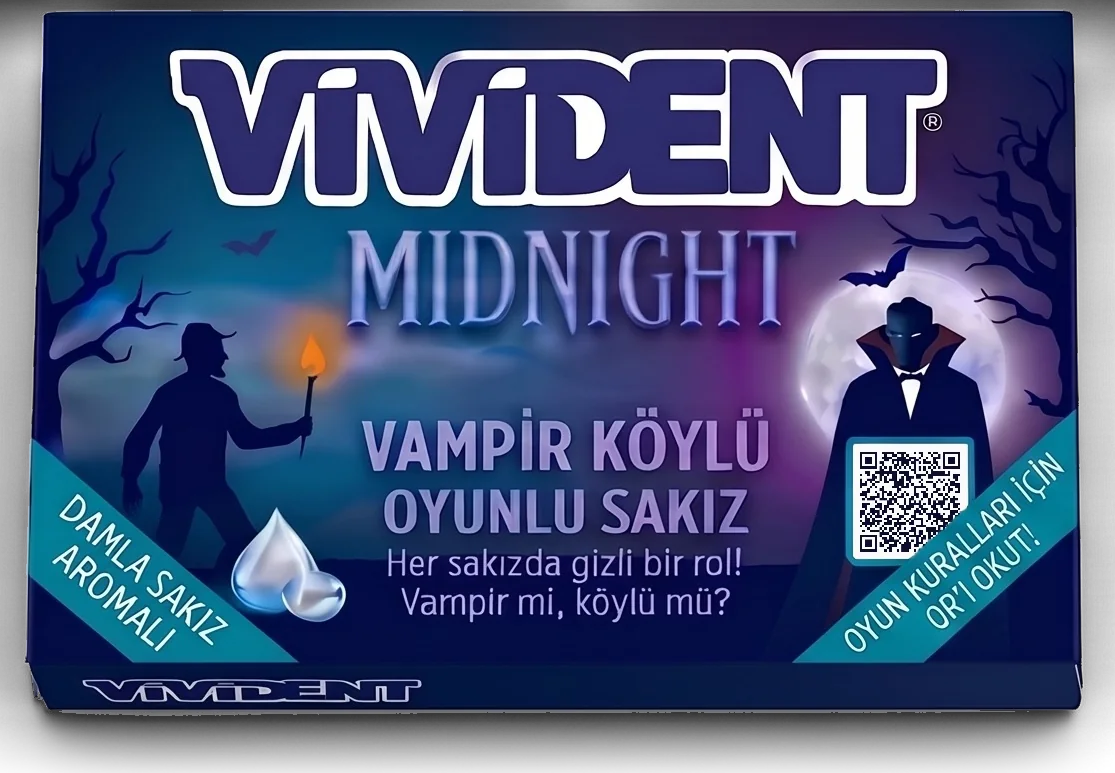
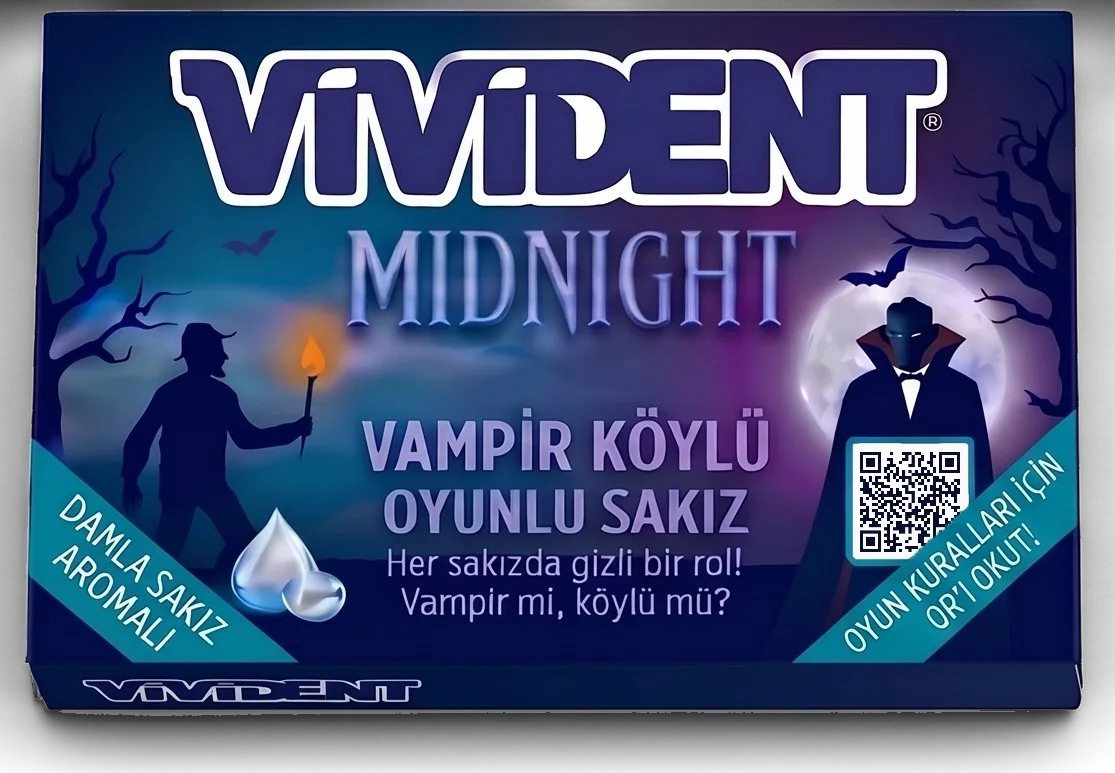
Karekodları daha iri modüllerle yenile, çilek paketindekini okunur yap

Changed region(s): [[0.7623, 0.5589, 0.8843, 0.7141]]

diff --git a/index.html b/index.html
@@ -572,7 +572,7 @@
       <p class="lead">Her pakette tek aroma, gizli rollü sakızlar ve oklu bölmede bir anlatıcı sakızı.</p>
       <div class="series">
         <figure><img src="img/nane.webp" width="1140" height="886" alt="Vivident Midnight nane aromalı paket" loading="lazy" decoding="async"><figcaption><span style="background:#2f8a6a"></span>Nane aromalı</figcaption></figure>
-        <figure><img src="img/cilek.webp" width="900" height="696" alt="Vivident Midnight çilek aromalı paket" loading="lazy" decoding="async"><figcaption><span style="background:#8a2a7a"></span>Çilek aromalı</figcaption></figure>
+        <figure><img src="img/cilek.webp" width="1109" height="858" alt="Vivident Midnight çilek aromalı paket" loading="lazy" decoding="async"><figcaption><span style="background:#8a2a7a"></span>Çilek aromalı</figcaption></figure>
         <figure><img src="img/damla.webp" width="1115" height="773" alt="Vivident Midnight damla sakızı aromalı paket" loading="lazy" decoding="async"><figcaption><span style="background:var(--teal)"></span>Damla sakızı aromalı</figcaption></figure>
       </div>
     </div>
